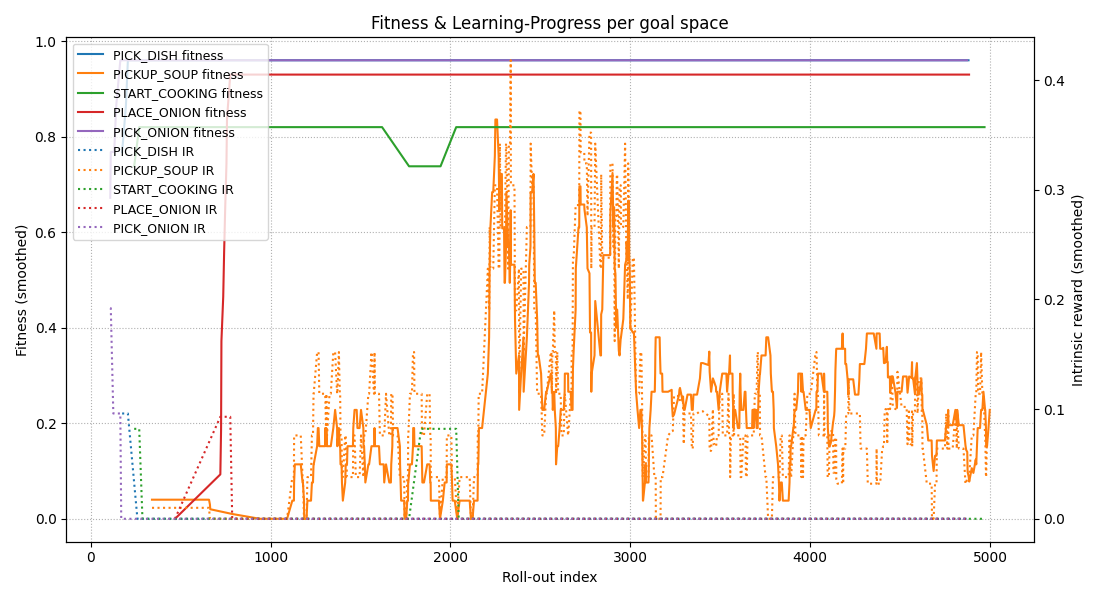
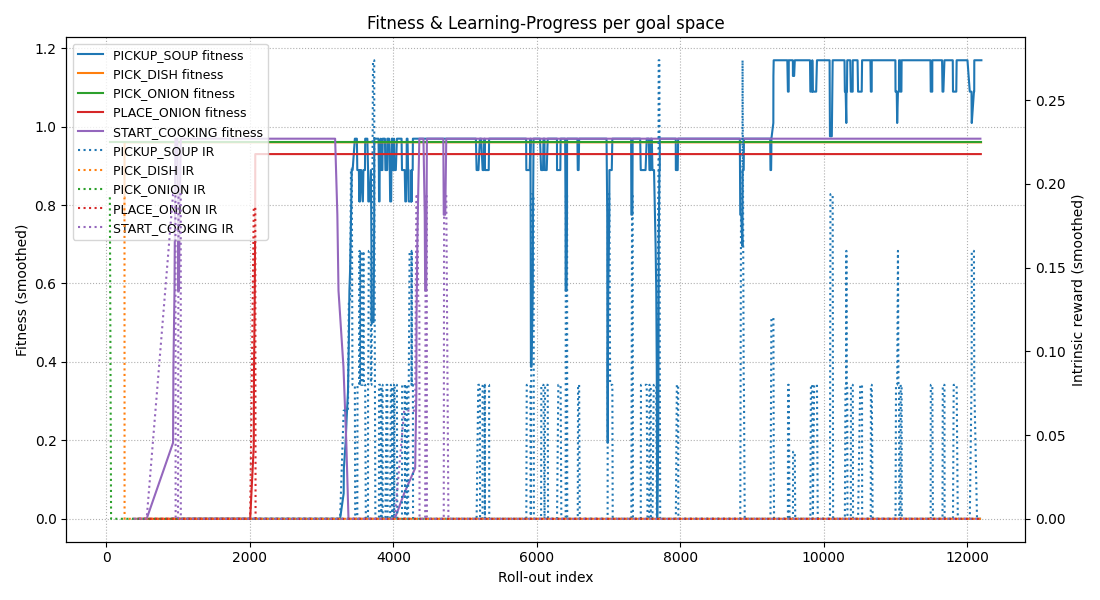
Fixed important bugs in goal spaces and added rewards for recipes

diff --git a/imrl_agent_new/visualise/stats/visualise.py b/imrl_agent_new/visualise/stats/visualise.py
@@ -25,21 +25,16 @@ def moving_average(values, window_size):
 
 # ------------------ plot function ----------------------------
 
-def plot_fitness(records, output_path, smoothing_window):
+def plot_fitness(records, output_path, smoothing_window, goal_space_colors):
     fitness_by_space = defaultdict(list)
     ir_by_space = defaultdict(list)
 
     for rec in records:
         if rec.exploit:
             goal_space = getattr(rec, "goal_space", None)
-            # goal = getattr(rec, "goal", str(rec.goal))
             label = goal_space
             fitness_by_space[label].append((rec.rollout_idx, rec.fitness))
             ir_by_space[label].append((rec.rollout_idx, rec.intrinsic_reward))
-
-    for label, records in fitness_by_space.items():
-        rollout_idxs = sorted(idx for idx, _ in records)
-        print(f"{label} starts at rollout {rollout_idxs[0]}")
 
     if not fitness_by_space:
         print("❌ No fitness data found.")
@@ -49,9 +44,7 @@ def plot_fitness(records, output_path, smoothing_window):
     ax_f = plt.gca()
     ax_ir = ax_f.twinx()
 
-    colors = plt.cm.tab10.colors
-
-    for idx, label in enumerate(fitness_by_space):
+    for label in sorted(fitness_by_space):
         # sort by rollout index to ensure lines are smooth
         fitness_sorted = sorted(fitness_by_space[label])
         ir_sorted = sorted(ir_by_space[label])
@@ -67,8 +60,10 @@ def plot_fitness(records, output_path, smoothing_window):
         x_fit = x_fit[len(x_fit) - len(y_fit_smooth):]
         x_ir = x_ir[len(x_ir) - len(y_ir_smooth):]
 
-        ax_f.plot(x_fit, y_fit_smooth, color=colors[idx % 10], label=f"{label} fitness")
-        ax_ir.plot(x_ir, y_ir_smooth, color=colors[idx % 10], linestyle=":", label=f"{label} IR")
+        color = goal_space_colors[label]
+
+        ax_f.plot(x_fit, y_fit_smooth, color=color, label=f"{label} fitness")
+        ax_ir.plot(x_ir, y_ir_smooth, color=color, linestyle=":", label=f"{label} IR")
 
     ax_f.set_xlabel("Roll-out index")
     ax_f.set_ylabel("Fitness (smoothed)")
@@ -87,16 +82,16 @@ def plot_fitness(records, output_path, smoothing_window):
 
 from collections import defaultdict
 
+import math
 
-def plot_goalspace_distribution(records, output_path, smoothing_window):
-    """Plot the % of rollouts per goal space over time."""
-    goal_counts = defaultdict(list)
+
+def plot_goalspace_distribution(records, output_path, num_bins, goal_space_colors):
+    goal_counts_per_bin = defaultdict(list)
 
     # STEP 0: deduplicate rollout indices
     seen = {}
     for rec in records:
-        if rec.exploit:
-            seen[rec.rollout_idx] = rec  # keeps the *last* per rollout_idx
+        seen[rec.rollout_idx] = rec
 
     # STEP 1: Tally rollout counts
     per_rollout = defaultdict(lambda: defaultdict(int))
@@ -110,30 +105,54 @@ def plot_goalspace_distribution(records, output_path, smoothing_window):
     all_idxs = sorted(all_idxs)
     all_spaces = sorted({space for counts in per_rollout.values() for space in counts})
 
-    # 2. For each goal space, collect a % per rollout index
-    for space in all_spaces:
-        percentages = []
-        for i in all_idxs:
-            total = sum(per_rollout[i].values())
-            pct = per_rollout[i][space] / total if total > 0 else 0
-            percentages.append(pct)
-        # 3. Smooth and store
-        goal_counts[space] = moving_average(percentages, smoothing_window)
+    # STEP 2: Compute bin size
+    total_rollouts = len(all_idxs)
+    bin_size = math.ceil(total_rollouts / num_bins)
 
-    # 4. Plotting
-    plt.figure(figsize=(11, 5))
-    for idx, (space, y_vals) in enumerate(goal_counts.items()):
-        x_vals = all_idxs[len(all_idxs) - len(y_vals):]
-        plt.plot(x_vals, y_vals, label=space, color=plt.cm.tab10(idx))
+    # STEP 3: Bin the rollouts
+    bins = []
+    current_bin = []
+    for idx in all_idxs:
+        current_bin.append(idx)
+        if len(current_bin) == bin_size:
+            bins.append(current_bin)
+            current_bin = []
+    if current_bin:
+        bins.append(current_bin)
 
-    plt.title("Goal-space rollout distribution over time")
-    plt.xlabel("Roll-out index")
-    plt.ylabel("Proportion (smoothed)")
-    plt.grid(True, linestyle=":")
+    # STEP 4: For each bin, compute % of each goal space
+    for bin_idxs in bins:
+        total_counts = defaultdict(int)
+        total_in_bin = 0
+        for idx in bin_idxs:
+            for space in all_spaces:
+                total_counts[space] += per_rollout[idx][space]
+            total_in_bin += sum(per_rollout[idx].values())
+
+        for space in all_spaces:
+            pct = total_counts[space] / total_in_bin if total_in_bin > 0 else 0
+            goal_counts_per_bin[space].append(pct)
+
+    # STEP 5: Plot stacked bar chart
+    x_vals = np.arange(len(bins))
+    bottom_vals = np.zeros(len(bins))
+
+    plt.figure(figsize=(12, 6))
+    for space in sorted(all_spaces):
+        y_vals = goal_counts_per_bin[space]
+        color = goal_space_colors[space]
+        plt.bar(x_vals, y_vals, bottom=bottom_vals, label=space, color=color)
+        bottom_vals += y_vals
+
+    plt.title(f"Goal-space rollout distribution ({num_bins} bins)")
+    plt.xlabel(f"Bins (variable size: ~{bin_size} rollouts per bin)")
+    plt.ylabel("Proportion per bin")
+    plt.xticks(ticks=x_vals, labels=[f"{bin_idxs[0]}-{bin_idxs[-1]}" for bin_idxs in bins], rotation=45, ha='right')
+    plt.grid(axis='y', linestyle=":")
     plt.legend(title="Goal Space", loc="upper right")
     plt.tight_layout()
     plt.savefig(output_path)
-    print(f"✅ Saved distribution plot to {output_path}")
+    print(f"✅ Saved stacked bar distribution plot to {output_path}")
 
 
 # ------------------ load & run -------------------------------
@@ -143,11 +162,20 @@ def make_graphs():
         if os.path.exists(path):
             print(f"✅ Found {path}")
             records = load_records(path)
-            plot_fitness(records, f"visualise/stats/fitness_plot_{ag}.png", 10)
-            plot_goalspace_distribution(records, f"visualise/stats/goalspace_dist_{ag}.png", 10)
+
+            # 1⃣ Collect all goal spaces
+            all_spaces = sorted({rec.goal_space for rec in records if rec.exploit})
+
+            # 2⃣ Build consistent color map
+            goal_space_colors = get_goal_space_colors(all_spaces)
+
+            # 3⃣ Plot with consistent colors
+            plot_fitness(records, f"visualise/stats/fitness_plot_{ag}.png", 5, goal_space_colors)
+            plot_goalspace_distribution(records, f"visualise/stats/goalspace_dist_{ag}.png", 5, goal_space_colors)
             get_statistics(path)
         else:
             print(f"❌ Could not find {path}")
+
 
 
 def get_statistics(pickle_path):
@@ -193,3 +221,12 @@ def get_statistics(pickle_path):
     print("Average intrinsic reward per goal space:")
     for space, avg in avg_ir_by_space.items():
         print(f"  • {space:<15} : {avg:.4f}")
+
+
+def get_goal_space_colors(all_spaces):
+    """Assign consistent colors to goal spaces."""
+    colors = plt.cm.tab10.colors
+    color_map = {}
+    for idx, space in enumerate(sorted(all_spaces)):
+        color_map[space] = colors[idx % len(colors)]
+    return color_map

diff --git a/imrl_agent_new/core/goal_spaces.py b/imrl_agent_new/core/goal_spaces.py
@@ -10,7 +10,7 @@ class Goal:
 
 
 def pick_object_space(length_of_trajectory: int, name, object_code) -> Goal:
-    def fitness(pick_step: int, end_of_episode: bool, state: OvercookedState, previous_state: OvercookedState,
+    def fitness(pick_step: int, state: OvercookedState, previous_state: OvercookedState,
                 agent_id: int, mdp: OvercookedGridworld):
         if pick_step is None:
             return 0.0
@@ -28,12 +28,11 @@ def pick_object_space(length_of_trajectory: int, name, object_code) -> Goal:
 
 
 def place_object_space(length_of_trajectory: int, name, object_code) -> Goal:
-    def fitness(pick_step: int, end_of_episode: bool, state: OvercookedState, previous_state: OvercookedState,
+    def fitness(pick_step: int, state: OvercookedState, previous_state: OvercookedState,
                 agent_id: int, mdp: OvercookedGridworld):
         if pick_step is None:
             return 0.0
         return 1.0 - (pick_step / max(length_of_trajectory, 1))  # fast = high
-
 
     def success(agent_id: int, state: OvercookedState, previous_state: OvercookedState,
                 mdp: OvercookedGridworld):
@@ -68,24 +67,25 @@ def start_cooking_space(length_of_trajectory: int) -> Goal:
     pick_onion_goal = pick_object_space(length_of_trajectory, "PICK_ONION", ItemCode.ONION.value)
     place_onion_goal = place_object_space(length_of_trajectory, "PICK_ONION", ItemCode.ONION.value)
 
-    def fitness(pick_step: int, end_of_episode: bool, state: OvercookedState, previous_state: OvercookedState,
+    def fitness(pick_step: int, state: OvercookedState, previous_state: OvercookedState,
                 agent_id: int, mdp: OvercookedGridworld):
-        if end_of_episode:
-            if pick_step is None:
-                return 0.0
-            return 1.0 - (pick_step / max(length_of_trajectory, 1)) - 0.2  # fast = high
-
+        previous_cooking_pots = set(mdp.get_cooking_pots(mdp.get_pot_states(previous_state)))  # set of positions
+        current_cooking_pots = set(mdp.get_cooking_pots(mdp.get_pot_states(state)))  # set of positions
+        # Get positions adjacent to the agent (CURRENT state)
         previous_agent: PlayerState = previous_state.players[agent_id]
-        current_agent = state.players[agent_id]
-        if not previous_agent.has_object() or current_agent.has_object():
-            return 0.0
+        adjacent_features = mdp.get_adjacent_features(previous_agent)
+        adjacent_positions = {feature[0] for feature in adjacent_features}  # convert to set for fast lookup
+        # Check: any NEW pot that started cooking, AND agent is adjacent to it
+        new_cooking_pots = current_cooking_pots - previous_cooking_pots  # set difference
 
-        if pick_onion_goal.success(agent_id, state, previous_state, mdp):
-            # The agent has picked up an onion
-            return 0.1
-        if place_onion_goal.success(agent_id, state, previous_state, mdp):
-            # The agent has placed an onion in a pot
-            return 0.1
+        for pot_pos in new_cooking_pots:
+            if pot_pos in adjacent_positions:
+                held = state.get_object(pot_pos)
+
+                # Final reward for successful pickup
+                if not held or held.name != 'soup':
+                    return 0.0
+                return held.value / 65
 
         return 0
 
@@ -116,45 +116,34 @@ def pickup_soup_space(length_of_trajectory: int) -> Goal:
     pick_dish_goal = pick_object_space(length_of_trajectory, "PICK_DISH", ItemCode.DISH.value)
     pick_onion_goal = pick_object_space(length_of_trajectory, "PICK_ONION", ItemCode.ONION.value)
 
-    def fitness(pick_step: int, end_of_episode: bool, state: OvercookedState, previous_state: OvercookedState,
+    def fitness(pick_step: int, state: OvercookedState, previous_state: OvercookedState,
                 agent_id: int, mdp: OvercookedGridworld):
         # Phase 1: Start cooking → use start_cooking_goal's fitness
-        if not end_of_episode:
-            # Check if cooking has started
-            current_cooking_pots = set(mdp.get_cooking_pots(mdp.get_pot_states(state)))
-            cooking_started = len(current_cooking_pots) > 0
-
-            # If cooking not started yet → use start_cooking fitness
-            if not cooking_started:
-                return start_cooking_goal.fitness(pick_step, end_of_episode, state, previous_state,
-                                                  agent_id, mdp)
-
-            # Phase 2: cooking started → check if agent picked up bowl
-            previous_agent: PlayerState = previous_state.players[agent_id]
-            current_agent: PlayerState = state.players[agent_id]
-
-            previous_held = previous_agent.get_object() if previous_agent.has_object() else 0
-            current_held = current_agent.get_object() if current_agent.has_object() else 0
-
-            # Punish picking up something other than a dish
-            if pick_onion_goal.success(agent_id, state, previous_state, mdp):
-                # The agent has picked up an onion
-                return -0.2
-
-            # Detect bowl pickup
-            if current_held != 0 and current_held.name == 'dish':
-                # The agent is holding a dish
-                return 0.02
-
-            # Otherwise, no reward at this step
-            return 0.0
-
-        # End of episode handling
-        if end_of_episode and pick_step is None:
-            return 0.0
+        # Check if cooking has started
+        current_cooking_pots = set(mdp.get_cooking_pots(mdp.get_pot_states(state)))
+        cooking_started = len(current_cooking_pots) > 0
+        player: PlayerState = state.players[agent_id]
+        held = player.get_object() if player.has_object() else 0
 
         # Final reward for successful pickup
-        return 1.0 - (pick_step / max(length_of_trajectory, 1)) - 0.2
+        if held and held.name == 'soup':
+            return held.value / 65  # Normalize by max soup value (65)
+
+        if not cooking_started:
+            return start_cooking_goal.fitness(pick_step, state, previous_state,
+                                              agent_id, mdp)
+        # Punish picking up something other than a dish
+        if pick_onion_goal.success(agent_id, state, previous_state, mdp):
+            # The agent has picked up an onion
+            return -0.2
+
+        # Detect bowl pickup
+        if pick_dish_goal.success(agent_id, state, previous_state, mdp):
+            # The agent is holding a dish
+            return 0.2
+        return 0.0  # No soup picked up yet
+
+
 
     def success(agent_id: int, state: OvercookedState, previous_state: OvercookedState,
                 mdp: OvercookedGridworld):

diff --git a/imrl_agent_new/overcooked/agent.py b/imrl_agent_new/overcooked/agent.py
@@ -6,7 +6,7 @@ import random
 import numpy as np
 
 from imrl_agent_new.core.goal_policy import GoalSpacePolicy
-from imrl_agent_new.core.goal_spaces import Goal, create_goal_space
+from imrl_agent_new.core.goal_spaces import create_goal_space
 from imrl_agent_new.core.knowledge_base import ExperimentRecord, KnowledgeBase
 from imrl_agent_new.core.neuro_policy import NeuroPolicy
 from imrl_agent_new.helper.choose_goal import get_plan
@@ -87,7 +87,6 @@ class IMGEPAgent(Agent):
             self.neuro_policy = NeuroPolicy(theta=theta_vec)
         else:
             # --- explore:  mutate policy --
-            # Pick a random policy from the previous 100 for this exploration loop
             relevant_policies = []
             pick_other_policy = random.random() < 0.3
             if pick_other_policy:  # Pick a random policy from an (other) goal space which is performing well
@@ -114,12 +113,10 @@ class IMGEPAgent(Agent):
         if self.previous_state and gs.success(self.agent_id, state, self.previous_state,
                                               self.mdp) and self.goal_reach_time_step is None:
             self.goal_reach_time_step = self.t
-            return Action.STAY, {}
 
-        if self.previous_state and self.goal_reach_time_step is None:
+        if self.previous_state and (self.goal_reach_time_step is None or self.t == self.goal_reach_time_step):
             self.rollout_fitness += gs.fitness(
                 pick_step=self.goal_reach_time_step,
-                end_of_episode=False,
                 state=state,
                 previous_state=self.previous_state,
                 agent_id=self.agent_id,
@@ -163,16 +160,6 @@ class IMGEPAgent(Agent):
         outcome = extract_outcome(final_state,
                                   final_state.players[self.agent_id],
                                   self.mdp)
-
-        gs: Goal = self.G[self.goal_space_id]
-        self.rollout_fitness += gs.fitness(
-            pick_step=self.goal_reach_time_step,
-            end_of_episode=True,
-            state=final_state,
-            previous_state=self.previous_state,
-            agent_id=self.agent_id,
-            mdp=self.mdp
-        )
 
 
         # intrinsic reward = Δ fitness vs nearest prior experiment

diff --git a/imrl_agent_new/demo_eval.py b/imrl_agent_new/demo_eval.py
@@ -24,11 +24,11 @@ mlam = env.mlam
 max_dist = max_plan_cost(mp)  # longest path in the layout, used for normalization
 
 agents = [IMGEPAgent(env, mdp, agent_id, horizon=HORIZON, max_dist=max_dist) for agent_id in range(2)]
-# for ag in agents: ag.kb.load_buffer("kb/buffer_rollouts" + str(ag.agent_id) + ".pkl")
+for ag in agents: ag.kb.load_buffer("kb/buffer_rollouts" + str(ag.agent_id) + ".pkl")
 # ---------------------------------------------------------------- run one roll-out
 state = env.reset()
 
-ROLL_OUTS = 5000
+ROLL_OUTS = 100
 
 for roll in range(ROLL_OUTS):
     print(roll)
